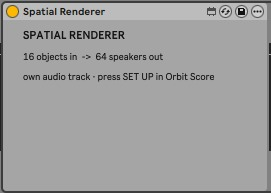
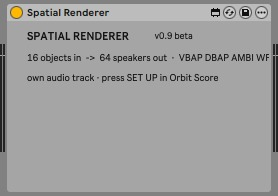
Wiki: device screenshots with the v0.9 beta labels
Claude-Session: https://claude.ai/code/session_01TKc1CDoWRtRwsAG1rPAYtG

diff --git a/orbitscore-wiki/index.html b/orbitscore-wiki/index.html
@@ -530,7 +530,7 @@ footer{font:11.5px/1.6 var(--f-mono);color:var(--mid);border-top:1px solid var(-
 <section id="devices">
   <div class="cap">08 — Device reference</div>
   <h2>Device reference</h2>
-  <figure><img src="media/dev-object.jpg?v=1110e" alt="Spatial Object device in Live" loading="lazy" width="511" height="193" style="max-width:511px"><figcaption>FIG. 8.1 — Spatial Object</figcaption></figure>
+  <figure><img src="media/dev-object.jpg?v=1124" alt="Spatial Object device in Live" loading="lazy" width="861" height="193" style="max-width:861px"><figcaption>FIG. 8.1 — Spatial Object</figcaption></figure>
   <h3>Spatial Object</h3>
   <div class="tw"><table>
     <tr><th>Parameter</th><th>Range</th><th>Meaning</th></tr>
@@ -549,12 +549,12 @@ footer{font:11.5px/1.6 var(--f-mono);color:var(--mid);border-top:1px solid var(-
     <tr><td>Speed</td><td>0–100 %</td><td>Louder and brighter when moving fast</td></tr>
   </table></div>
   <h3>Spatial Master</h3>
-  <figure><img src="media/dev-master.jpg?v=1110e" alt="Spatial Master device in Live" loading="lazy" width="258" height="212" style="max-width:258px"><figcaption>FIG. 8.2 — Spatial Master</figcaption></figure>
+  <figure><img src="media/dev-master.jpg?v=1124" alt="Spatial Master device in Live" loading="lazy" width="437" height="199" style="max-width:437px"><figcaption>FIG. 8.2 — Spatial Master</figcaption></figure>
   <ul>
     <li>Keeps the scenes in the set and connects the set to the screen (OSC port 9001; the screen answers on 9002).</li>
   </ul>
   <h3>Spatial Renderer</h3>
-  <figure><img src="media/dev-renderer.jpg?v=1110e" alt="Spatial Renderer device in Live" loading="lazy" width="271" height="193" style="max-width:271px"><figcaption>FIG. 8.3 — Spatial Renderer</figcaption></figure>
+  <figure><img src="media/dev-renderer.jpg?v=1124" alt="Spatial Renderer device in Live" loading="lazy" width="278" height="196" style="max-width:278px"><figcaption>FIG. 8.3 — Spatial Renderer</figcaption></figure>
   <ul>
     <li>Speakers: up to 16 objects in, 64 speakers out, through the <code>OUT</code> tracks. It sets up the object tracks' routing by itself.</li>
   </ul>
@@ -991,7 +991,7 @@ footer{font:11.5px/1.6 var(--f-mono);color:var(--mid);border-top:1px solid var(-
 <section id="ko-devices">
   <div class="cap">08 — Device reference</div>
   <h2>디바이스 파라미터</h2>
-  <figure><img src="media/dev-object.jpg?v=1110e" alt="Live의 Spatial Object 디바이스" loading="lazy" width="511" height="193" style="max-width:511px"><figcaption>FIG. 8.1 — Spatial Object</figcaption></figure>
+  <figure><img src="media/dev-object.jpg?v=1124" alt="Live의 Spatial Object 디바이스" loading="lazy" width="861" height="193" style="max-width:861px"><figcaption>FIG. 8.1 — Spatial Object</figcaption></figure>
   <h3>Spatial Object</h3>
   <div class="tw"><table>
     <tr><th>파라미터</th><th>범위</th><th>뜻</th></tr>
@@ -1010,12 +1010,12 @@ footer{font:11.5px/1.6 var(--f-mono);color:var(--mid);border-top:1px solid var(-
     <tr><td>Speed</td><td>0–100 %</td><td>빠르게 움직일 때 더 크고 밝게</td></tr>
   </table></div>
   <h3>Spatial Master</h3>
-  <figure><img src="media/dev-master.jpg?v=1110e" alt="Live의 Spatial Master 디바이스" loading="lazy" width="258" height="212" style="max-width:258px"><figcaption>FIG. 8.2 — Spatial Master</figcaption></figure>
+  <figure><img src="media/dev-master.jpg?v=1124" alt="Live의 Spatial Master 디바이스" loading="lazy" width="437" height="199" style="max-width:437px"><figcaption>FIG. 8.2 — Spatial Master</figcaption></figure>
   <ul>
     <li>씬을 세트에 보관하고, 세트와 화면을 연결합니다 (OSC 포트 9001, 화면은 9002로 응답).</li>
   </ul>
   <h3>Spatial Renderer</h3>
-  <figure><img src="media/dev-renderer.jpg?v=1110e" alt="Live의 Spatial Renderer 디바이스" loading="lazy" width="271" height="193" style="max-width:271px"><figcaption>FIG. 8.3 — Spatial Renderer</figcaption></figure>
+  <figure><img src="media/dev-renderer.jpg?v=1124" alt="Live의 Spatial Renderer 디바이스" loading="lazy" width="278" height="196" style="max-width:278px"><figcaption>FIG. 8.3 — Spatial Renderer</figcaption></figure>
   <ul>
     <li>스피커: 오브젝트 최대 16개 입력, 스피커 64개 출력(<code>OUT</code> 트랙 경유). 오브젝트 트랙의 라우팅은 자동으로 설정됩니다.</li>
   </ul>
